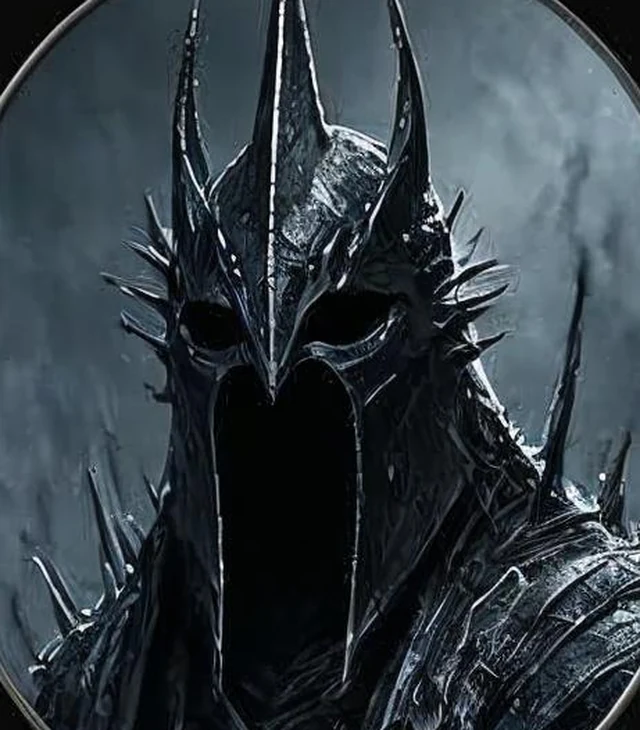
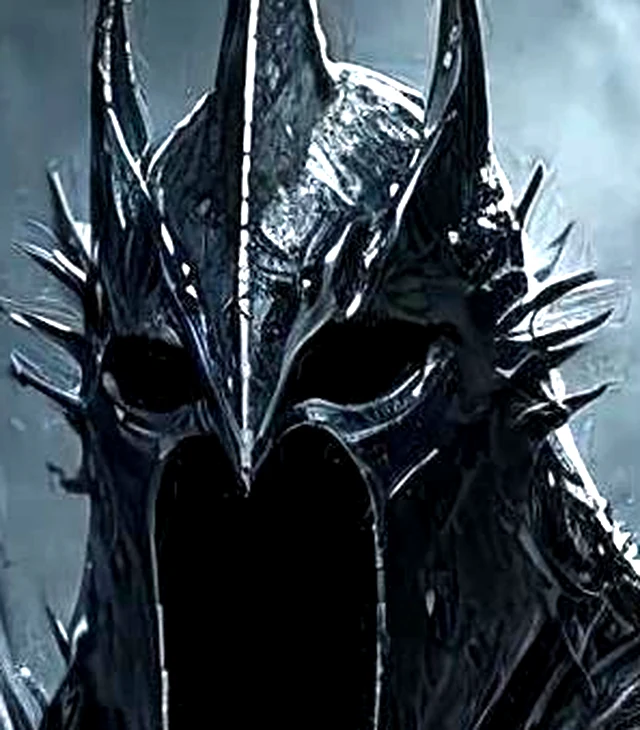
Portraits open large on right-click / long press; Dread Overlord and Hooded Wraith reframed

diff --git a/src/ui/components/PortraitInspector.tsx b/src/ui/components/PortraitInspector.tsx
@@ -1,0 +1,83 @@
+import { useRef, type CSSProperties, type MouseEvent, type PointerEvent } from 'react';
+import { create } from 'zustand';
+import { FACTIONS } from '@/data/factions';
+import { getPortrait } from '@/data/portraits';
+import type { PlayableFaction } from '@/game/types';
+import { Modal } from './common';
+import { portraitUrl } from './WardenPortrait';
+import { t } from '@/i18n';
+import '@/ui/styles/portraitInspector.css';
+
+interface Target {
+  faction: PlayableFaction;
+  /** Alternative portrait id; null = the faction's default Warden. */
+  portrait: string | null;
+}
+
+const usePortraitInspect = create<{ target: Target | null; open: (t: Target | null) => void }>((set) => ({
+  target: null,
+  open: (target) => set({ target }),
+}));
+
+export const inspectPortrait = (target: Target | null) => usePortraitInspect.getState().open(target);
+
+/**
+ * Right-click (or a half-second press on touch screens) on a portrait opens it large.
+ * The tap that ends a long press is swallowed so it does not also select or buy.
+ */
+export function usePortraitPress(target: Target) {
+  const timer = useRef<number | null>(null);
+  const start = useRef<{ x: number; y: number } | null>(null);
+  const fired = useRef(false);
+  const cancel = () => {
+    if (timer.current !== null) window.clearTimeout(timer.current);
+    timer.current = null;
+    start.current = null;
+  };
+  return {
+    onContextMenu: (e: MouseEvent) => {
+      e.preventDefault();
+      if (!fired.current) inspectPortrait(target);
+    },
+    onPointerDown: (e: PointerEvent) => {
+      fired.current = false;
+      if (e.pointerType !== 'touch') return;
+      cancel();
+      start.current = { x: e.clientX, y: e.clientY };
+      timer.current = window.setTimeout(() => {
+        timer.current = null;
+        fired.current = true;
+        inspectPortrait(target);
+      }, 500);
+    },
+    onPointerMove: (e: PointerEvent) => {
+      if (start.current && Math.hypot(e.clientX - start.current.x, e.clientY - start.current.y) > 10) cancel();
+    },
+    onPointerUp: cancel,
+    onPointerCancel: cancel,
+    /** Call first in onClick: true when the click only ended a long press. */
+    swallowClick: () => {
+      if (!fired.current) return false;
+      fired.current = false;
+      return true;
+    },
+  };
+}
+
+/** Global large portrait view. */
+export function PortraitInspector() {
+  const target = usePortraitInspect((s) => s.target);
+  if (!target) return null;
+  const url = portraitUrl(target.faction, target.portrait);
+  const def = getPortrait(target.portrait);
+  const faction = FACTIONS[target.faction];
+  const name = def ? t(def.name) : t('Default Warden');
+  return (
+    <Modal open onClose={() => inspectPortrait(null)} title={name} className="portrait-inspector">
+      <div className="portrait-inspector-body" style={{ '--fc': faction.colors.primary } as CSSProperties}>
+        {url && <img src={url} alt={name} draggable={false} />}
+        <span className="portrait-inspector-faction">{faction.name}</span>
+      </div>
+    </Modal>
+  );
+}

diff --git a/src/ui/components/PortraitPicker.tsx b/src/ui/components/PortraitPicker.tsx
@@ -1,4 +1,5 @@
 import { getPortrait, portraitsOf } from '@/data/portraits';
+import { usePortraitPress } from './PortraitInspector';
 import type { PlayableFaction } from '@/game/types';
 import { t } from '@/i18n';
 import { WardenPortrait } from './WardenPortrait';
@@ -37,20 +38,31 @@ export function PortraitPicker({
   return (
     <div className="portrait-picker" role="radiogroup" aria-label={t('Warden portrait')}>
       {options.map((o) => (
-        <button
-          key={o.value ?? 'default'}
-          type="button"
-          role="radio"
-          aria-checked={value === o.value}
-          className={`portrait-option ${value === o.value ? 'is-selected' : ''}`}
-          title={o.label}
-          onClick={() => onChange(o.value)}
-        >
-          <WardenPortrait faction={faction} portrait={o.portrait} size={46} />
-          <span className="portrait-option-label">{o.label}</span>
-        </button>
+        <PortraitOptionButton key={o.value ?? 'default'} faction={faction} option={o} selected={value === o.value} onPick={() => onChange(o.value)} />
       ))}
     </div>
+  );
+}
+
+/** One option; right-click or a long press shows the portrait large. */
+function PortraitOptionButton({ faction, option, selected, onPick }: { faction: PlayableFaction; option: PortraitOption; selected: boolean; onPick: () => void }) {
+  const { swallowClick, ...press } = usePortraitPress({ faction, portrait: option.portrait });
+  return (
+    <button
+      type="button"
+      role="radio"
+      aria-checked={selected}
+      className={`portrait-option ${selected ? 'is-selected' : ''}`}
+      title={option.label}
+      {...press}
+      onClick={() => {
+        if (swallowClick()) return;
+        onPick();
+      }}
+    >
+      <WardenPortrait faction={faction} portrait={option.portrait} size={46} />
+      <span className="portrait-option-label">{option.label}</span>
+    </button>
   );
 }
 

diff --git a/src/ui/components/PortraitShop.tsx b/src/ui/components/PortraitShop.tsx
@@ -1,7 +1,8 @@
 import type { CSSProperties } from 'react';
 import { FACTIONS } from '@/data/factions';
 import { portraitsOf, type PortraitDef } from '@/data/portraits';
-import { PLAYABLE_FACTIONS } from '@/game/types';
+import { PLAYABLE_FACTIONS, type PlayableFaction } from '@/game/types';
+import { usePortraitPress } from './PortraitInspector';
 import { gameService, useAccount } from '@/state/accountStore';
 import { toast } from '@/state/uiStore';
 import { audio } from '@/audio/audioService';
@@ -9,6 +10,16 @@ import { confirmDialog } from './common';
 import { GoldIcon } from './Icons';
 import { WardenPortrait } from './WardenPortrait';
 import { t } from '@/i18n';
+
+/** A shop portrait; right-click or a long press shows it large. */
+function PressablePortrait({ faction, portrait }: { faction: PlayableFaction; portrait: string }) {
+  const { swallowClick, ...press } = usePortraitPress({ faction, portrait });
+  return (
+    <span className="portrait-tile-art" {...press} onClick={() => swallowClick()} title={t('Right-click or hold to enlarge')}>
+      <WardenPortrait faction={faction} portrait={portrait} size={92} />
+    </span>
+  );
+}
 
 /** Shop section: alternative Warden portraits, grouped by faction. */
 export function PortraitShop() {
@@ -42,7 +53,7 @@ export function PortraitShop() {
               const have = owned.includes(p.id);
               return (
                 <div key={p.id} className={`portrait-tile ${have ? 'is-owned' : ''}`}>
-                  <WardenPortrait faction={f} portrait={p.id} size={92} />
+                  <PressablePortrait faction={f} portrait={p.id} />
                   <strong>{t(p.name)}</strong>
                   {have ? (
                     <span className="portrait-owned">{t('Owned')}</span>

diff --git a/src/i18n/cs/data/patchNotes.ts b/src/i18n/cs/data/patchNotes.ts
@@ -1,6 +1,17 @@
 import type { PatchNotesOverlay } from '../../overlayTypes';
 
 const notes: PatchNotesOverlay = {
+  '0.27.3': {
+    title: 'Názvy karet v poznámkách k verzi',
+    summary: 'Názvy karet v poznámkách k verzi jsou zvýrazněné a portréty jde zobrazit ve velkém.',
+    sections: [
+      [
+        'Poznámky k verzi: každý název karty je zvýrazněný. Najetím myší kartu uvidíš, kliknutím otevřeš velký náhled.',
+        'Portréty Strážců: pravým klikem (na mobilu podržením) v obchodě, profilu nebo editoru balíčku portrét zvětšíš.',
+        'Portréty Děsivý vládce a Zakuklený přízrak jsou víc přiblížené a světlejší, takže se v malém lépe čtou.',
+      ],
+    ],
+  },
   '0.27.2': {
     title: 'Jedenáct nových portrétů Strážců',
     summary: 'Nové portréty v obchodě, panel Brawlu na úvodní obrazovce a přehlednější profil.',

diff --git a/src/data/patchNotes.ts b/src/data/patchNotes.ts
@@ -19,6 +19,23 @@ export interface PatchNote {
 
 export const PATCH_NOTES: PatchNote[] = [
   {
+    version: '0.27.3',
+    date: '2026-10-08',
+    title: 'Card names in patch notes',
+    summary: 'Card names in the patch notes are highlighted, and portraits can be viewed large.',
+    sections: [
+      {
+        kind: 'improved',
+        items: [
+          'Patch notes: every card name is highlighted. Hover it to see the card, click it to open the large view.',
+          'Warden portraits: right-click one (or hold it on a phone) in the Shop, Profile or deck editor to see it large.',
+          'Dread Overlord and Hooded Wraith portraits are framed closer and brighter, so they read better when small.',
+        ],
+      },
+    ],
+    commits: [],
+  },
+  {
     version: '0.27.2',
     date: '2026-10-08',
     title: 'Eleven new Warden portraits',

diff --git a/src/App.tsx b/src/App.tsx
@@ -9,6 +9,7 @@ import { ErrorBoundary } from '@/ui/components/ErrorBoundary';
 import { ConfirmHost, Spinner, ToastHost } from '@/ui/components/common';
 import { TooltipLayer } from '@/ui/components/Tooltip';
 import { CardInspector } from '@/ui/components/CardInspector';
+import { PortraitInspector } from '@/ui/components/PortraitInspector';
 import { CloudDialogs } from '@/ui/components/CloudAccount';
 import { SocialHost } from '@/ui/components/SocialHost';
 import { BootScreen, CorruptedSaveScreen, WelcomeScreen } from '@/ui/screens/BootScreens';
@@ -119,6 +120,7 @@ export default function App() {
       {status === 'CORRUPTED' && <CorruptedSaveScreen />}
       {status === 'READY' && <Shell />}
       <CardInspector />
+      <PortraitInspector />
       <CloudDialogs />
       <SocialHost />
       <ConfirmHost />

diff --git a/src/ui/styles/portraitInspector.css b/src/ui/styles/portraitInspector.css
@@ -1,0 +1,11 @@
+/* Large Warden portrait (right-click / long press on a portrait). */
+.modal.portrait-inspector { max-width: min(460px, calc(100vw - 32px)); }
+.portrait-inspector-body { display: grid; justify-items: center; gap: var(--space-3); }
+.portrait-inspector-body img {
+  display: block; width: min(400px, calc(100vw - 80px)); aspect-ratio: 640 / 730; height: auto; object-fit: cover;
+  border-radius: 10px; box-shadow: 0 0 0 2px var(--fc), 0 18px 40px rgba(4, 2, 16, 0.7);
+}
+.portrait-inspector-faction { font-size: var(--t-sm); font-weight: 700; color: var(--fc); }
+/* Portraits that open large on right-click / long press. */
+.portrait-tile-art, .portrait-option { -webkit-touch-callout: none; user-select: none; }
+.portrait-tile-art { display: inline-block; cursor: zoom-in; }

diff --git a/src/i18n/cs/ui/portraits.ts b/src/i18n/cs/ui/portraits.ts
@@ -3,6 +3,7 @@ const d: Record<string, string> = {
   'Warden portraits': 'Portréty Strážců',
   'Warden portrait': 'Portrét Strážce',
   'Default Warden': 'Výchozí Strážce',
+  'Right-click or hold to enlarge': 'Pravým klikem nebo podržením zvětšíš',
   Portrait: 'Portrét',
   'Same as in Profile': 'Podle Profilu',
   'More in the Shop': 'Další v obchodě',
